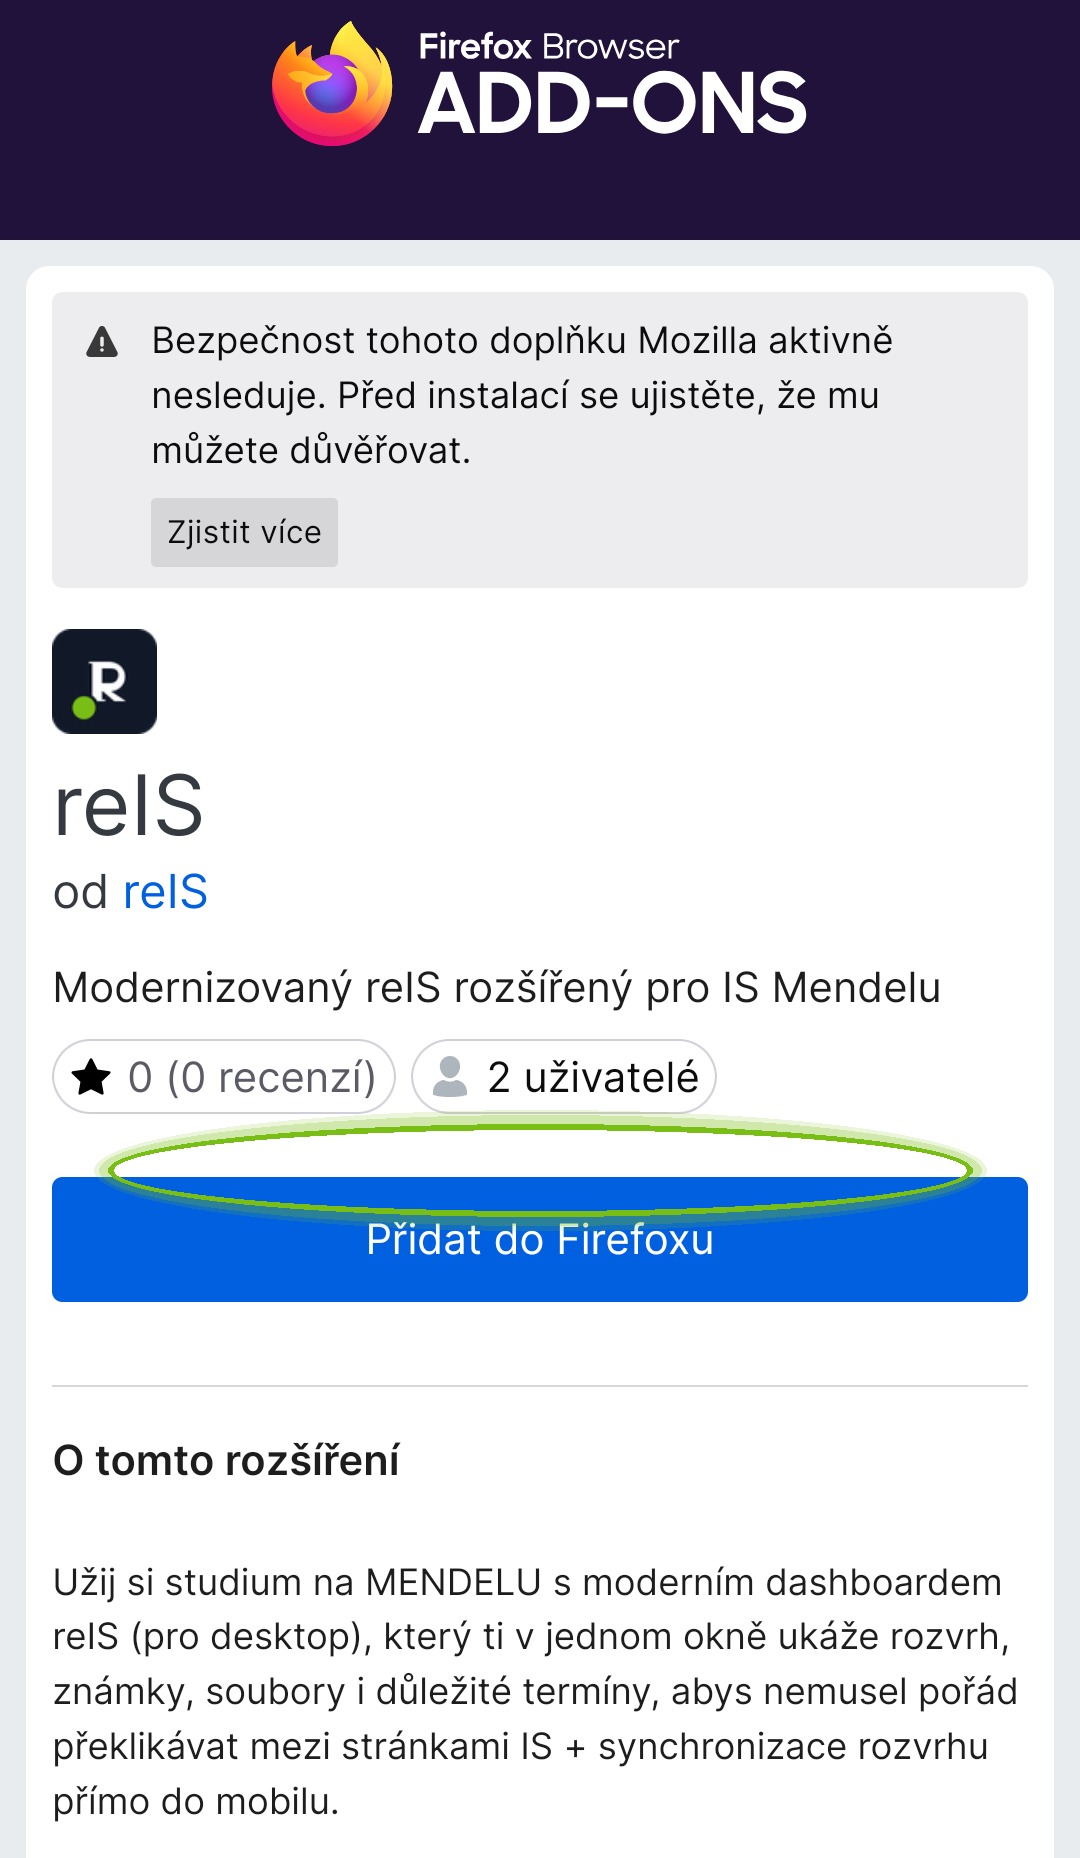
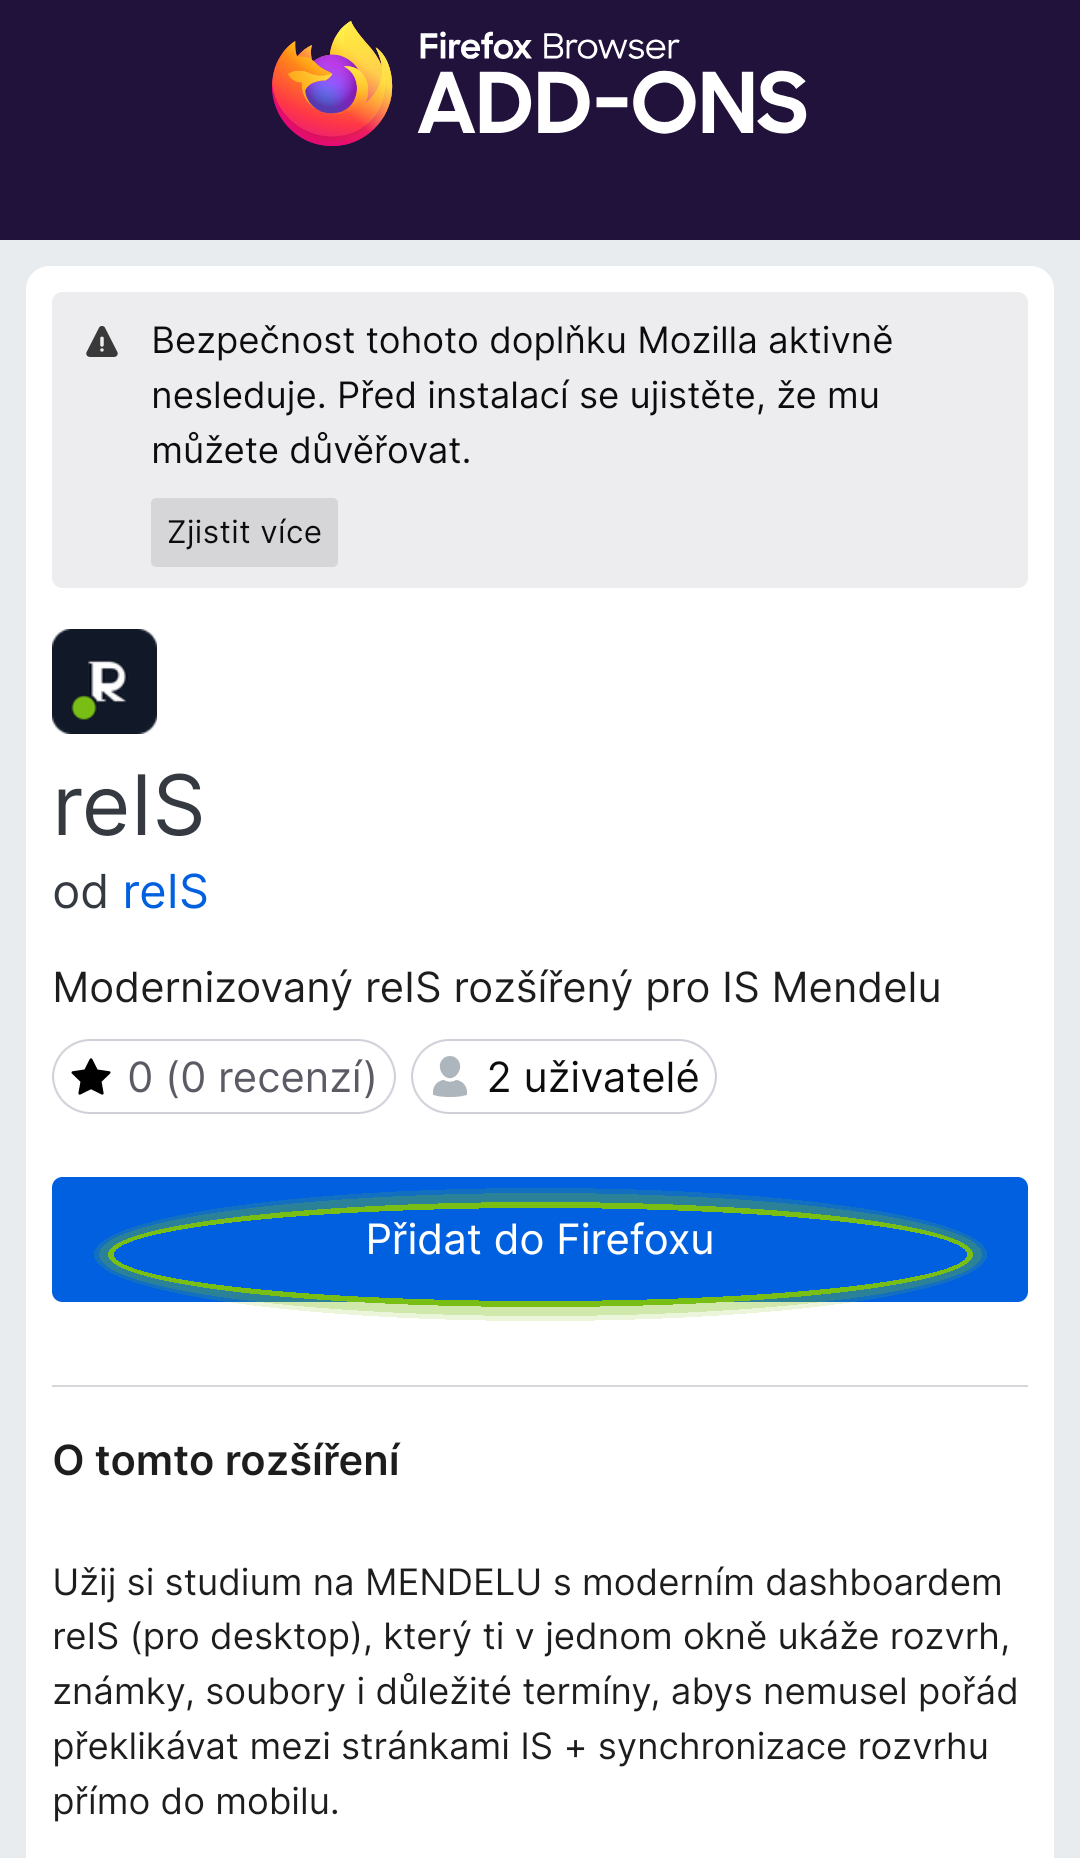
Shrink portrait screenshots 3x and fix Firefox ring position
- Portrait images capped at max-width:220px (auto-detected via naturalWidth/Height)
- Landscape screenshots still fill full column width
- Firefox AMO ring re-annotated with center properly on the button

Changed region(s): [[0.0917, 0.5931, 0.9167, 0.718]]

diff --git a/index.html b/index.html
@@ -228,7 +228,7 @@
 </x-dc>
 <script type="text/x-dc" data-dc-script data-props="{&quot;$preview&quot;: {&quot;width&quot;: 520, &quot;height&quot;: 920}}">
 class Component extends DCLogic {
-  state = { lang: 'cs', device: null, browser: null, shots: {} };
+  state = { lang: 'cs', device: null, browser: null, shots: {}, dims: {} };
 
   // Screenshots follow the convention screenshots/<browser>-<step>.png
   // (e.g. screenshots/chrome-2.png). On mount we probe which of those files
@@ -237,14 +237,17 @@ class Component extends DCLogic {
   // placeholder shows. To add a screenshot: drop a correctly named PNG into
   // screenshots/ and reload — no code change needed.
   componentDidMount() {
-    const found = {};
+    const found = {}, dims = {};
     let pending = 0;
     Object.keys(this.TUT).forEach((b) => {
       for (let i = 1; i <= 3; i++) {
         const path = `screenshots/${b}-${i}.png`;
         pending++;
         const probe = new Image();
-        const done = (ok) => { if (ok) found[path] = true; if (--pending === 0) this.setState({ shots: found }); };
+        const done = (ok) => {
+          if (ok) { found[path] = true; dims[path] = { w: probe.naturalWidth, h: probe.naturalHeight }; }
+          if (--pending === 0) this.setState({ shots: found, dims });
+        };
         probe.onload = () => done(true);
         probe.onerror = () => done(false);
         probe.src = path;
@@ -483,7 +486,13 @@ class Component extends DCLogic {
       tutSteps: tut.steps.map((s, i) => {
         const path = browser ? `screenshots/${browser}-${i + 1}.png` : '';
         const has = !!(path && this.state.shots[path]);
-        const imgStyle = has ? 'width:100%;height:auto;display:block;border-radius:12px' : 'display:none';
+        const dim = this.state.dims[path];
+        const portrait = dim && dim.h > dim.w;
+        const imgStyle = has
+          ? (portrait
+              ? 'max-width:220px;width:100%;height:auto;display:block;border-radius:12px;margin:0 auto'
+              : 'width:100%;height:auto;display:block;border-radius:12px')
+          : 'display:none';
         const containerStyle = has
           ? 'width:100%;border-radius:12px;overflow:hidden'
           : 'position:relative;width:100%;aspect-ratio:16/9;border-radius:12px;border:1px dashed rgba(255,255,255,.16);background:var(--surface-tertiary);display:flex;align-items:center;justify-content:center;overflow:hidden';